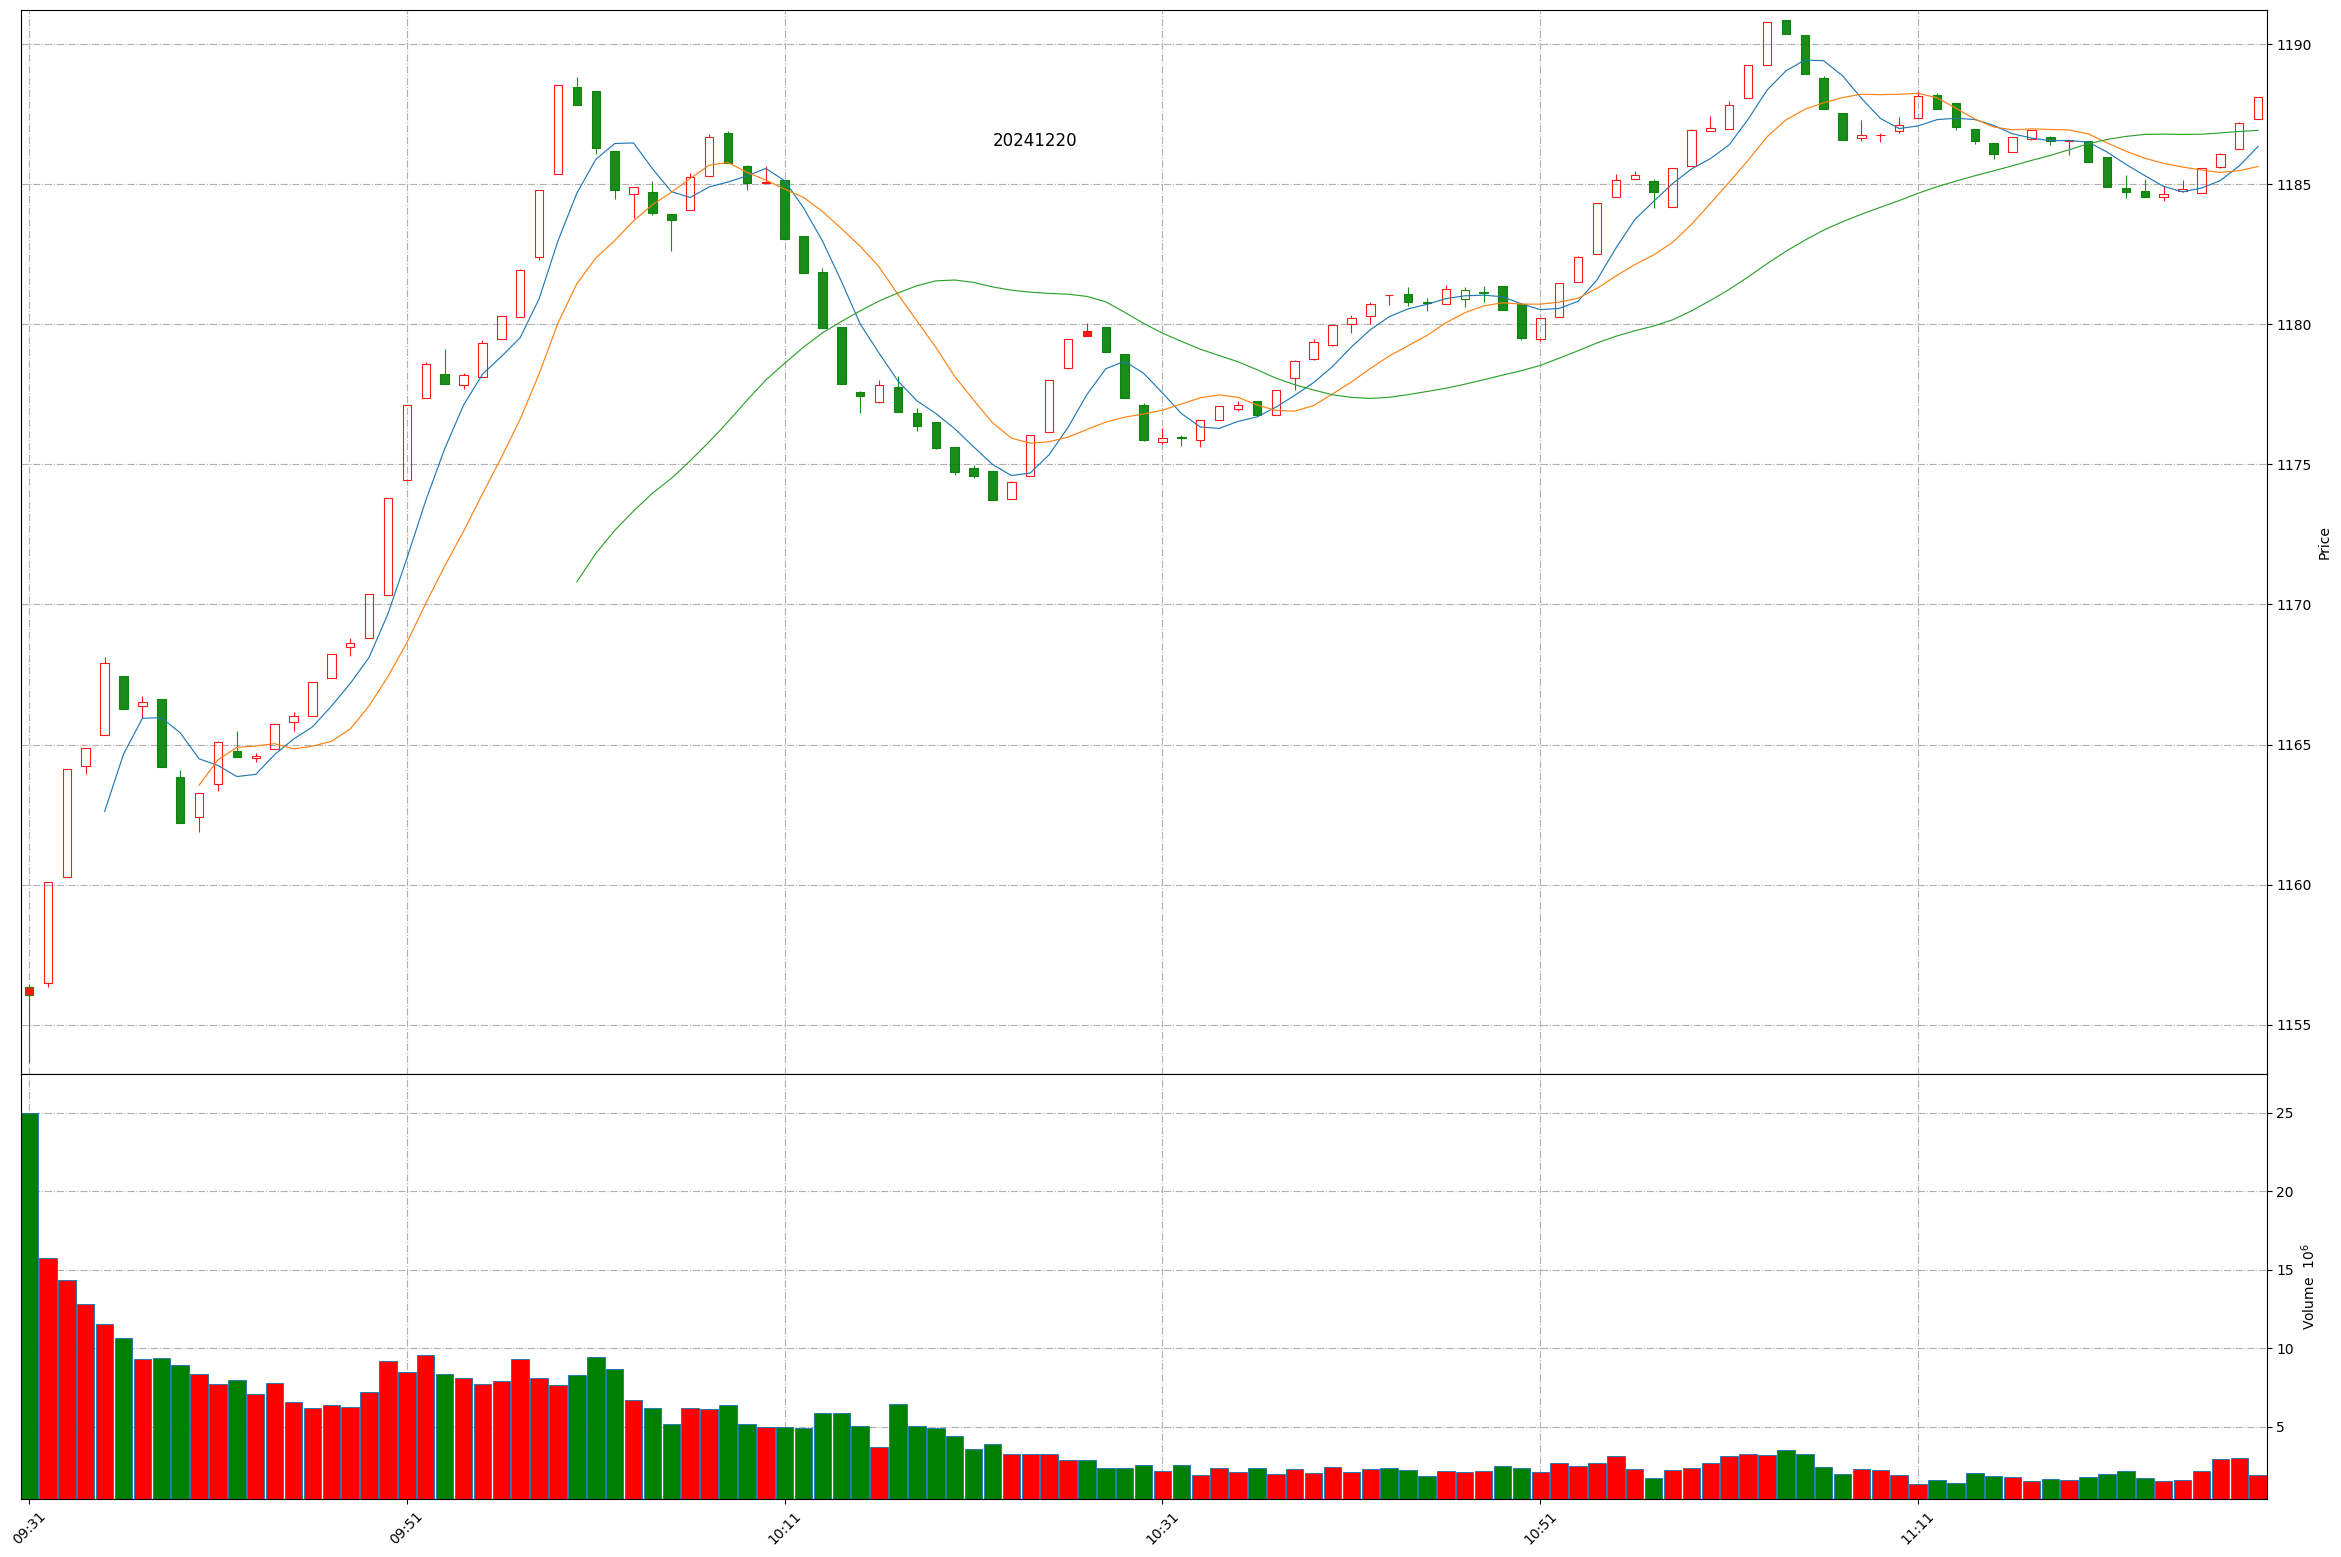
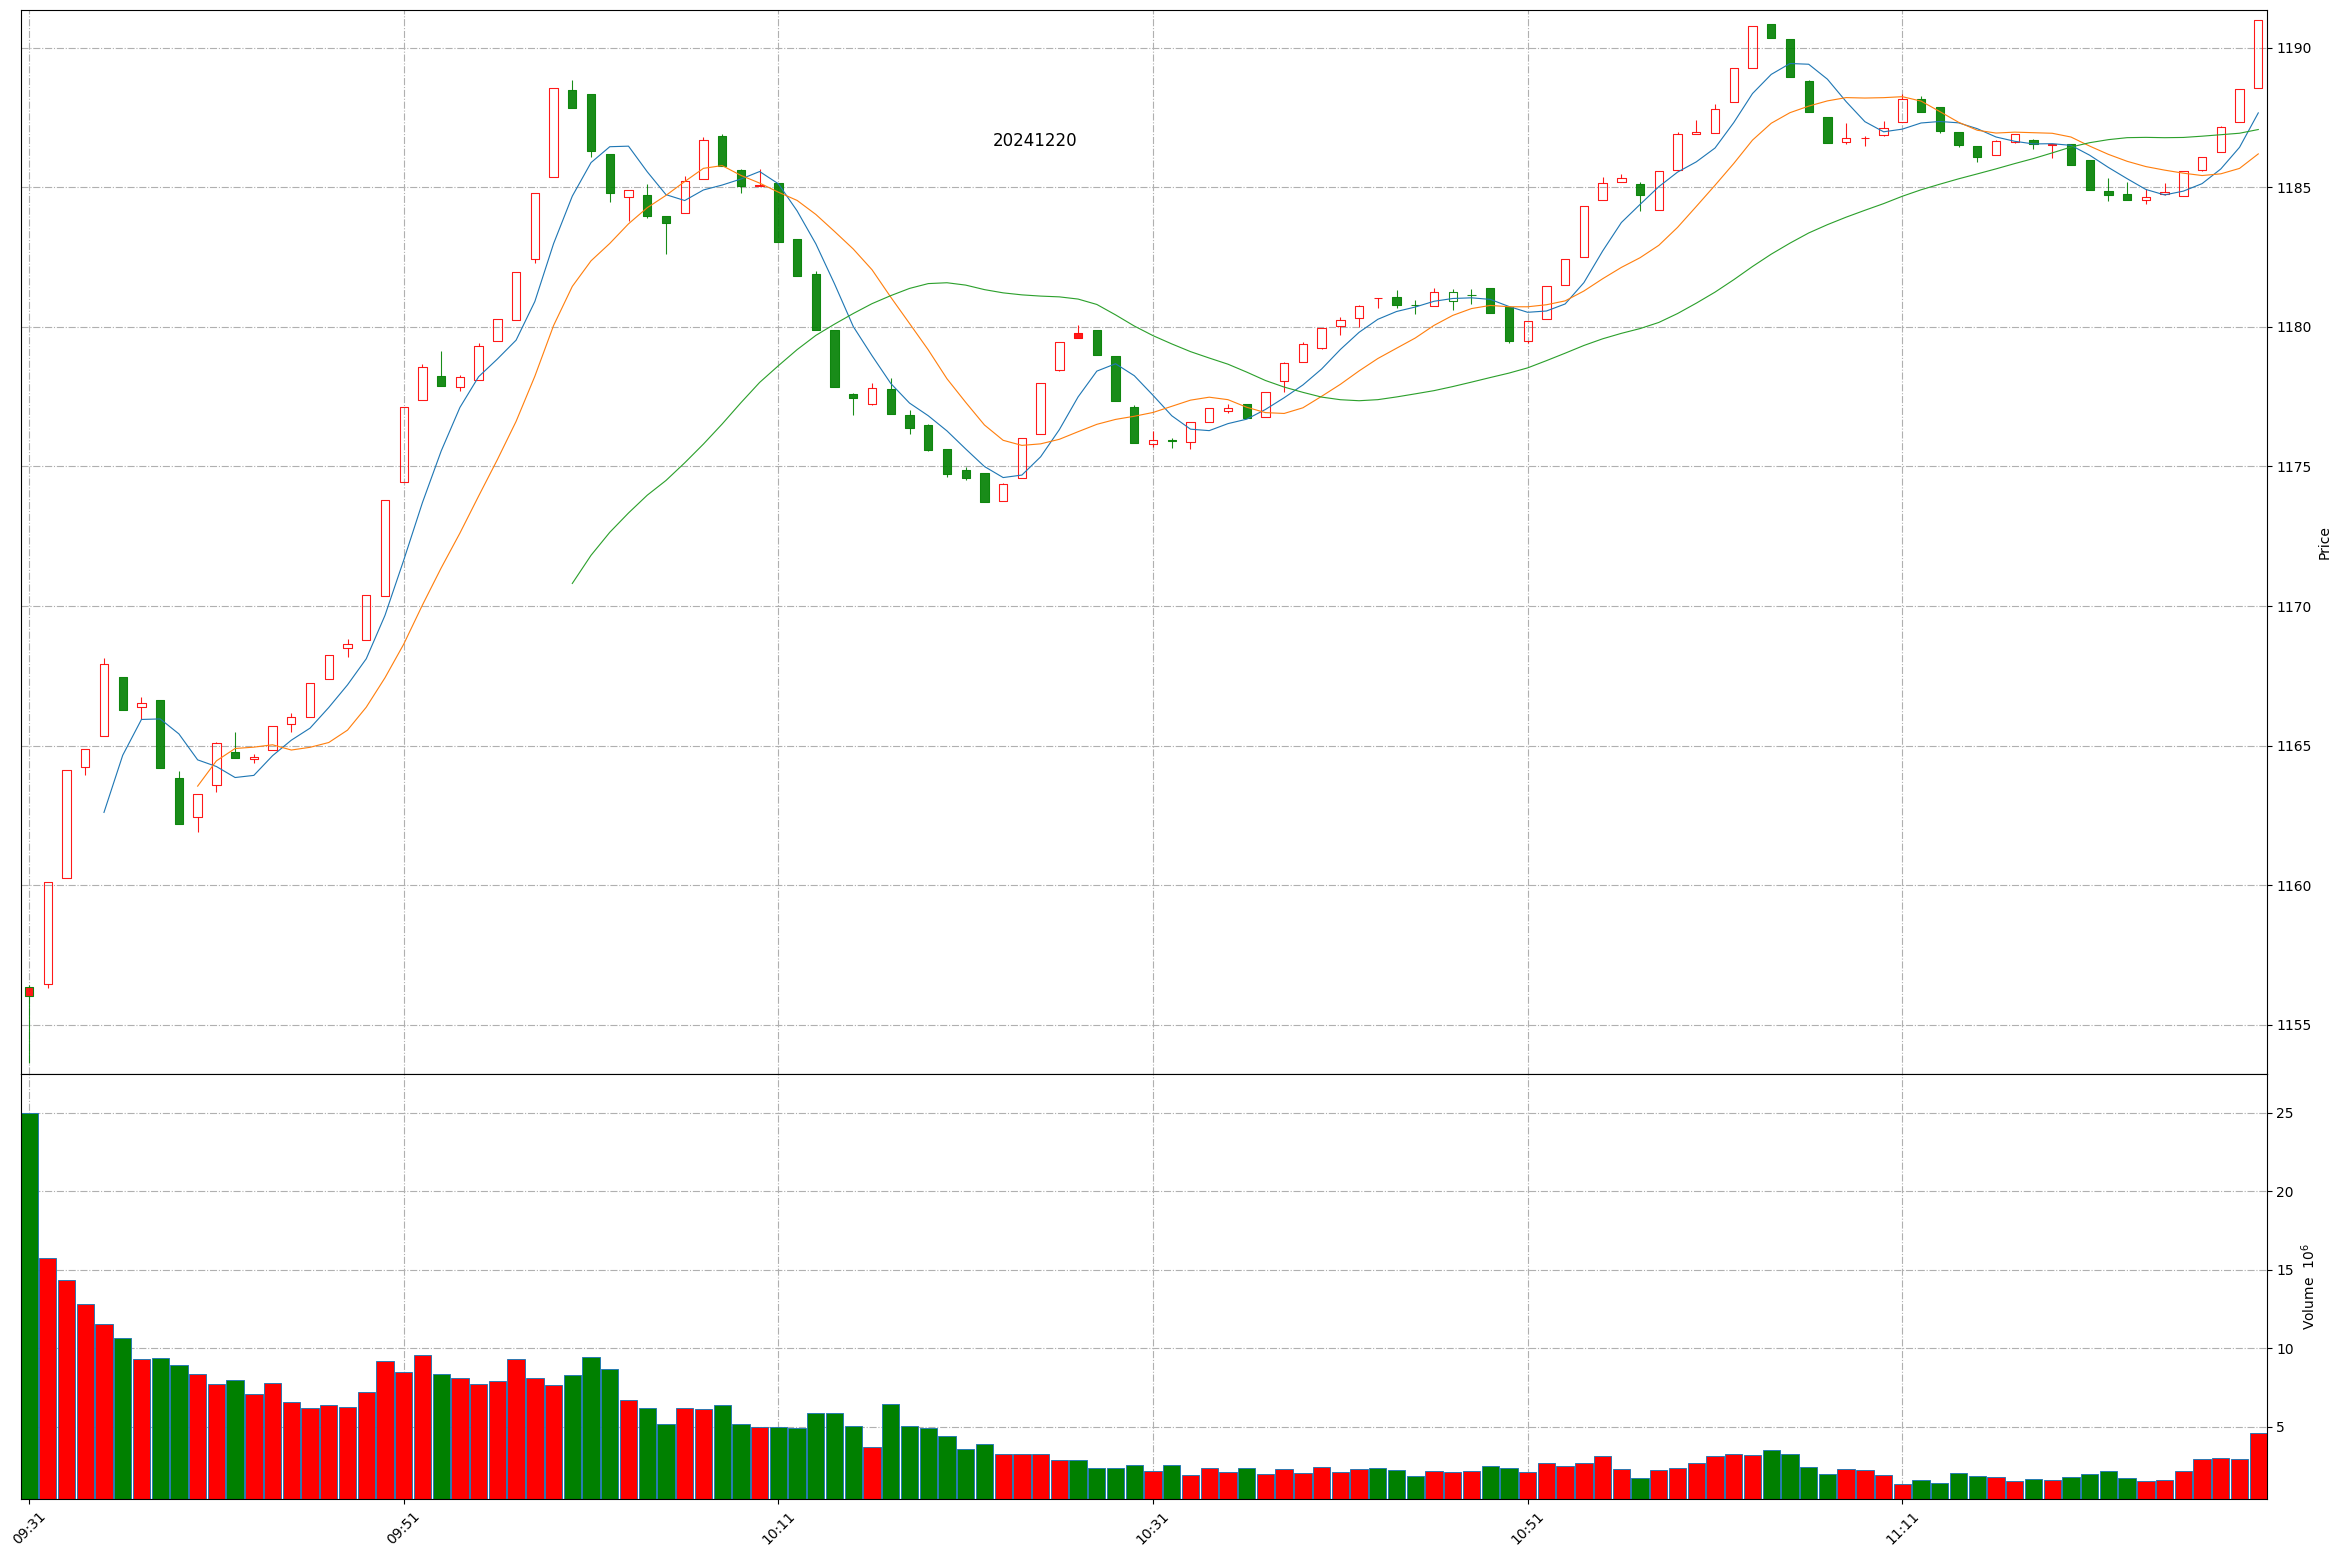
Github action update at 2024-12-20 11:31:42.

diff --git a/README.md b/README.md
@@ -1,11 +1,11 @@
 
 # Daily-A-share-market-quotes 每日 A 股指数（5min 更新）- 20241220
 
-### 上证指数 20241220 11:28
+### 上证指数 20241220 11:31
 ![](./fig/2024/12/20241220-sh000001.png)
 
-### 深证成指 20241220 11:28
+### 深证成指 20241220 11:31
 ![](./fig/2024/12/20241220-sz399001.png)
 
-### 北证50 20241220 11:28
+### 北证50 20241220 11:31
 ![](./fig/2024/12/20241220-bj899050.png)
